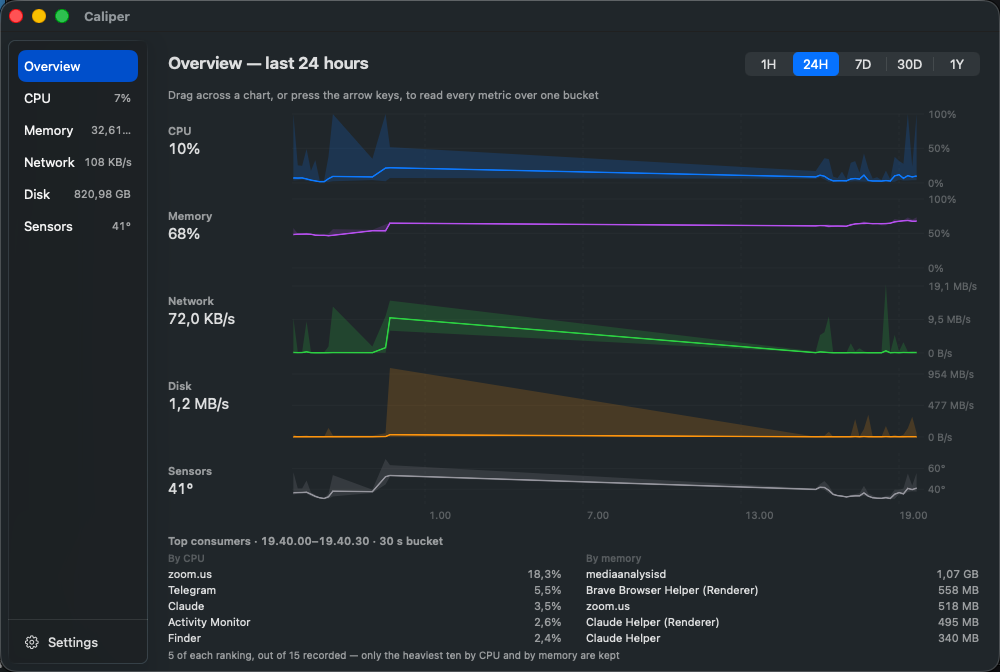
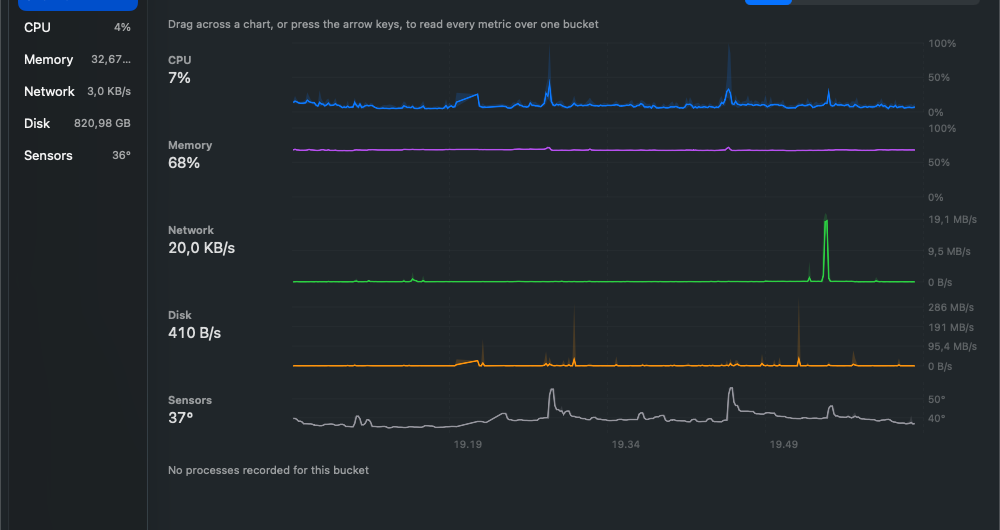
Show an hour that was recorded, not a day that was not
The screenshot was the 24-hour view of a machine that had been asleep for
sixteen of them. Thirty-six ten-minute buckets exist out of a hundred and
forty-four, and the chart drew a line and a min/max band straight across
the hole — a smooth sixteen-hour ramp on the disk and network plots that
nothing ever measured.

The app has a real bug there, and it is being fixed separately. Until it
is, the page shows the last hour, where every bucket on the chart is a
bucket that was written.

diff --git a/README.md b/README.md
@@ -44,7 +44,7 @@ records to SQLite from the moment it starts, rolls the samples up 10 s → 1 min
 heaviest processes of each bucket, so "what was going on at 3am" has an answer.
 
 <p align="center">
-  <img src="docs/dashboard.png" alt="The history window: 24 hours of CPU, memory, network, disk and temperature, with the top consumers underneath" width="900">
+  <img src="docs/dashboard.png" alt="The history window: an hour of CPU, memory, network, disk and temperature, charted together" width="900">
 </p>
 
 Nothing leaves the Mac. There is no account, no telemetry and no network call
